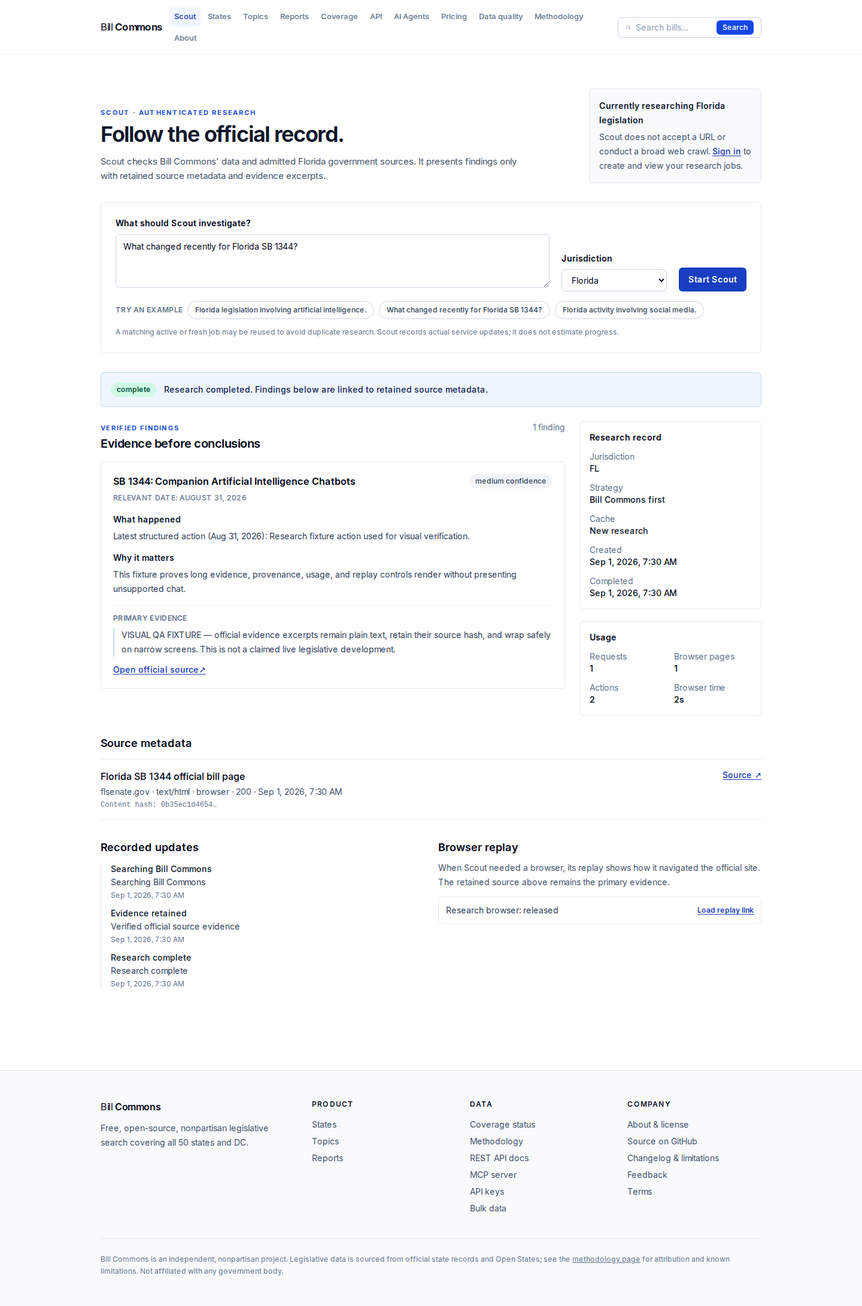
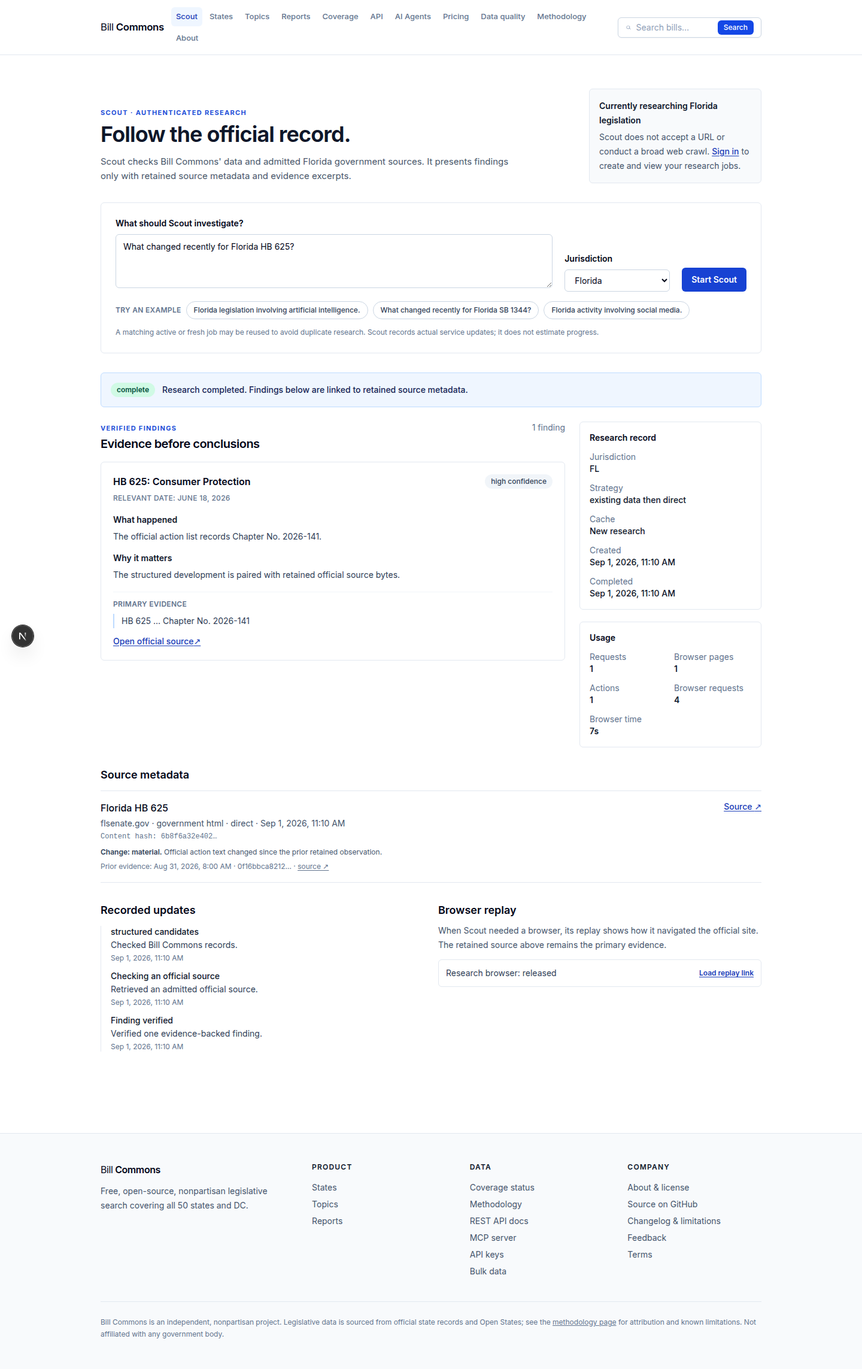
docs(scout): record final live and adversarial evidence

diff --git a/docs/scout/STATUS.md b/docs/scout/STATUS.md
@@ -1,73 +1,42 @@
 # Scout status / durable checkpoint
 
-## DONE
+Updated 2026-09-01. This records checks actually run; it is not production-deployment authority.
 
-- Repository identified: `/home/alberto/codingProjects/billcommons`, public Apache-2.0 monorepo on `main`.
-- Read `AGENTS.md`, README, locked architecture, manifests, API/web/schema/job/security/payment paths.
-- Confirmed Next.js 15 + FastAPI + PostgreSQL/Alembic + Postgres queues + Railway/Vercel; no Redis/Celery or existing Solari integration.
-- Confirmed existing magic-link `ApiCustomer` identity, Stripe billing, Resend, Vercel Analytics, RawStore/evidence/hash and SSRF foundations.
-- Verified current first-party Solari and Congress.gov documentation on 2026-09-01. Congress.gov API v3 requires an API key; its public documentation describes a default 5,000 request/hour limit, while this account's live response reported 20,000.
-- Completed Gate 1 architecture review with independent Claude and Grok reviewers. Both returned REVISE; accepted findings added crash leases, bounded cleanup, atomic coalescing, DB-backed browser concurrency, provider reaping, mandatory immutable evidence, DNS pinning/browser navigation policy, owner-proxied replay/evidence, explicit Florida candidate routing, and non-blocking replay.
-- Locked the revised P0 architecture in `docs/scout/ARCHITECTURE.md`.
-- Registered and locally stored a Congress.gov API key without committing it, then authenticated a live API v3 request. The live account reported Congress 119 and an hourly limit of 20,000.
-- Completed the separately requested customer-account review and outreach without placing customer identity, usage, or delivery identifiers in this public engineering document.
-- Verified production Stripe can create both a Builder subscription Checkout Session and a full-snapshot Checkout Session. No purchase or charge was completed. Replaced the legacy `/docs/bulk` external Payment Links with the native Bill Commons Checkout components so webhook metadata/provisioning follows the owned path.
-- Implemented the additive Scout schema/API/worker/provider and native `/scout` web slice behind dark-launch flags. Added safe local Solari setup and Congress authentication-check helpers.
-- Completed a disposable-PostgreSQL migration and E2E gate: API-created job -> queue claim -> structured lookup -> fixture retrieval -> retained RawStore evidence -> finding -> enriched owner response. Ten identical concurrent requests coalesced to one job; ten distinct requests respected the two-active-job quota.
-- Added claim-token fencing, cancellation checks, incremental partial results, immutable source hashes/prior-version links, bounded PDF/text extraction, browser concurrency locking, provider cleanup/reaping, and truthful replay availability.
-- Fixed two verified Bill Commons data-access defects: bill-record coverage warnings are now scoped to the served session, and `get_bill_record` accepts a same-jurisdiction session UUID while returning `invalid_session` for invalid/cross-jurisdiction values. Focused MCP regressions pass.
-- Ran one conservative direct request to the official Florida Senate source for SB 1344: HTTP 200, `text/html`, 51,922 bytes, SHA-256 prefix `0b35ec1d4654da6c`. No legislative claim was inferred from that smoke.
-- Completed external Gemini visual review (REVISE), accepted the user-facing jargon/replay findings, and recaptured production-mode desktop/mobile screenshots after fixes. The post-fix browser assertions passed at 1440x1100 and 390x844.
-- Published a sanitized public cookbook example on `GDACS-droid/solari-cookbook`, branch `billcommons-scout-challenge`; the post-live hardened head is commit `1095a02`. Its deterministic fixture, compile/diff, and explicitly opt-in live paths pass.
[1 lines of base64/hex data omitted]
-- Completed final adversarial repair: Scout now has credentialed production CORS; generic/login/maintenance/JS-shell HTML cannot create findings; retained text must support the exact bill and action/status; request/retry/daily spend budgets are enforced; failed runtime is counted; cleanup-failed sessions consume capacity; replay probes terminate without repeated release; expired claims exhaust; and persisted provider IDs are cleaned after mid-capture failure.
-- Completed the opt-in Solari gate against Florida's official Online Sunshine domain (`www.leg.state.fl.us`): live authentication passed; a recorded browser navigated to the bounded robots resource; the deterministic `User-agent` marker was extracted; one action completed in 3,650 ms; replay became available; and cleanup was independently confirmed. Operator output exposes only session fingerprint `cebada2bd753`, never the signed session capability or replay URL.
-- Repaired a lifecycle defect exposed by the first live attempt: the provider now creates the remote session explicitly, durably records its ID before Patchright connects, keeps drive and cleanup timeouts separate, releases known sessions after pre-connect cancellation/navigation failure, classifies failures without SDK text, and fingerprints signed IDs in CLI output. Focused provider/security coverage is now 27 passing tests.
-- Conservatively tested `www.flsenate.gov` through Solari and observed a repeatable provider-side browser `connection_reset`; those diagnostic attempts were released, and the source-specific failure is documented rather than hidden. The direct HTTP source remains healthy.
-- A pre-repair independent Gate 5 Grok review returned REVISE: interview-worthy, but missing live proof and production operability/full legacy regression were material. The live proof gap is now repaired; the independent release guard remains NOT READY for production.
-- Post-live independent Claude Gate 5 review returned REVISE. Accepted findings were repaired: candidate lookup is session-scoped, displayed evidence must support the exact bill/action claim, and prior-source linking is tenant-scoped. No live government finding has been claimed. Rejected one medium claim that URL admission performs blocking DNS in the route callback: `admit_url` is syntactic and does not resolve DNS.
-- Completed an opt-in live PostgreSQL/API product-path test against real MyFloridaHouse `BillId=84174`: safe direct fetch preserved a rejected `302`, the fixed-host policy admitted exactly one Solari browser session, and the durable session ended `released`. The fixture metadata intentionally did not describe the live bill, so no finding was required or fabricated.
-- Independent browser-path red-team found and drove repairs for redirect interception, service-worker/WebSocket/popup egress, final-URL provenance, false pre-create usage, global-cap request accounting, and unreapable failed cleanup. Its final rerun returned PASS. The hardened live product-path test then passed again in 5.57 seconds with one session and durable release.
+## Completed
 
-## RUNNING
+- Inspected the public Apache-2.0 Bill Commons monorepo and followed its Next.js 15, FastAPI, PostgreSQL/Alembic, Postgres-queue, Railway/Vercel, `ApiCustomer`, RawStore, Resend, Stripe, and Vercel Analytics conventions.
+- Implemented native authenticated `/scout`, owner-scoped API/job lifecycle, dedicated worker, structured-data-first routing, conservative Florida direct retrieval, an isolated Solari provider plus deterministic mock, immutable evidence/provenance, cache/dedupe/change primitives, analytics, partial results, and dark-launch controls.
+- Added bounded requests/retries/bytes/time/pages/actions/routed requests/concurrency/daily usage, DNS-pinned URL admission, private-network and redirect rejection, plain-text rendering, claim fencing, cancellation, browser cleanup/reaping, and replay authorization.
+- Repaired adversarial findings covering false terminal success after request exhaustion, late callback revival of abandoned browser slots, concurrent provenance forks, one-shot polling after transient errors, pre-provider usage inflation, provider-reported routed-request overruns, and false login-page classification.
+- Verified current first-party Solari and Congress.gov documentation. Congress.gov v3 live authentication passed without exposing the key; the account response reported a 20,000 request/hour limit.
+- Published the sanitized cookbook example at `GDACS-droid/solari-cookbook`, branch `billcommons-scout-challenge`, commit `1095a02`.
+- The production API-only Stripe billing hotfix was separately preflighted and deployed successfully. It did not deploy Scout, run a migration, change prices, or configure a webhook.
 
-- Final immutable Scout commit/reconciliation and submission handoff.
+## Live evidence
 
-## BLOCKED
-
-- None for deterministic implementation.
-- Stripe Dashboard webhook registration and a completed paid provisioning round trip remain unproven. Existing live checkout creation is not equivalent to a purchase.
-- Production schema migration, worker/API rollout, feature-flag enablement, and deployment are not authorized.
-
-## Constraints / invariants
-
-- Never inspect protected voter data or credential values.
-- Preserve pre-existing modified/untracked ingest, monitoring, outreach, and `.claude` files.
-- Schema changes are additive; no migration or production deploy without explicit authorization and preflight.
-- API container must not import worker code.
-- Fetched content is hostile data; every job access is owner-scoped; Solari use is bounded and cleanup is attempted in all terminal paths.
-
-## Git state at final handoff
-
-- Branch: `billcommons-scout`, tracking the public `origin/billcommons-scout` branch.
-- Immutable feature commits: `3eb4832` (Scout), `aeee726` (served-session MCP fixes), and `3a814c7` (native Stripe checkout links).
-- Pre-existing changes before Scout: modified `workers/ingest/billcommons_ingest/fulltext.py`, `healthcheck.py`, `workers/ingest/tests/test_healthcheck.py`; untracked `.claude/`, operations/outreach/rendered/monitoring files.
-- Scout changes now include additive schema/migration, shared policy, owner-scoped API, dedicated worker/provider, web route/components/client/tests, `docs/scout/*`, `.env.example`, and safe setup/check helpers. `/docs/bulk` is the only Stripe-adjacent application edit. MCP session/coverage fixes are separately scoped.
+- Final post-repair Solari smoke: pass; official `www.leg.state.fl.us/robots.txt`; one page/action; 7,283 ms; recording enabled; replay available; cleanup confirmed; non-reversible session fingerprint `186a068f3858`.
+- Earlier product-path Solari check: real MyFloridaHouse `302` escalation; exactly one durable browser session; terminal state `released`; deliberately no unsupported bill finding.
+- Live direct product check: the official Florida Senate HB 625 page supported both `HB 625` and `Chapter No. 2026-141`; Scout retained one direct source and one exact evidence-backed finding without launching the mock browser.
+- Chromium visual assertions and full-page captures passed at 1440x1100 and 390x844 using an explicitly labeled result fixture. This is rendering proof, not a claimed live discovery.
 
 ## Verification actually run
 
-- `apps/web`: `npm run test:scout` (4 passed), `npm run lint`, and `NEXT_PUBLIC_SCOUT_ENABLED=true npm run build` passed; the production build emitted `/scout`.
-- Pre-live combined Scout Python gate: 101 passed. The final post-hardening focused regression expanded to 145 passed, with only the known TestClient and SQLite adapter deprecations. These cover shared URL/security tests, API/CORS/owner contracts, MCP session behavior, worker adversarial/lifecycle tests, and reaping while the feature flag is disabled; disposable-PostgreSQL E2E is recorded separately.
-- Disposable PostgreSQL Scout E2E/concurrency/migration gate: 4 passed, 1 live test skipped by default, one TestClient deprecation warning. The explicit live product-path test passed after the final browser-egress hardening with the Solari key configured.
-- MCP session/coverage gate: 29 passed.
-- `git diff --check` and Python `compileall` passed.
-- Broader shared/API regression: 641 passed, 3 skipped, 3 failed, 4 setup errors. The failures are existing production-corpus/status/performance assertions and a pre-existing mortality bucket vocabulary mismatch; the errors are legacy fixtures attempting duplicate NY/NE jurisdictions. This default path falls back to the configured live database and must not be repeated without an isolated test database.
-- `scripts/congress_api_check.py` passed live authentication without exposing the key.
-- Production Stripe checkout creation and the separately requested outreach operation ran successfully. The final live Solari browser/recording/replay/cleanup gate passed; no production schema migration/deploy or completed Stripe payment has run.
-- Billing regression gate: 71 passed. The `/docs/bulk` page now uses the owned Builder/snapshot Checkout flows instead of legacy external Payment Links.
-- Post-repair focused provider/security gate: 27 passed. Live Solari result: `session_ref=cebada2bd753`, one action, 3,650 ms, deterministic marker present, replay available, cleanup confirmed.
-- Final web gate rerun after the hardened live pass: 4 tests, ESLint, typecheck, and production build passed with `/scout` emitted. Static generation logged nonfatal `ECONNREFUSED 127.0.0.1:8000` warnings for pages whose optional local API was absent.
+- Focused current Scout Python gate, including guarded real-PostgreSQL provenance and daily-budget concurrency tests: **226 passed, 2 live skipped**, 9 warnings.
+- Web: **8 passed**; targeted ESLint passed; TypeScript/Next production build passed and emitted `/scout`. Optional build-time localhost API fetches logged nonfatal connection refusals.
+- Guarded PostgreSQL Scout suite: **5 passed, 2 live skipped** by default. The opt-in live direct HB 625 test separately passed.
+- Billing/API-key/quota/rate-limit verification on disposable PostgreSQL: **227 passed**, 1 warning. Billing unit gate: **78 passed, 1 skipped**; real PostgreSQL reconciliation concurrency: **1 passed**.
+- Broad isolated shared/API regression is **not green**: **617 passed, 30 skipped, 45 failed**. Most failures require a populated legislative corpus or expose monolithic rate-limit state; a legacy `substituted` mortality-status mismatch also remains. Do not report this gate as passing.
+- Congress.gov authentication helper passed live. The final bounded Solari check passed as recorded above.
 
-## NEXT
+## Git / preservation
 
-Record the truthful demo, open/merge the prepared public branches, then publish the prepared social post. Production rollout remains a separate explicitly authorized operation and is still NOT READY under the release preflight.
+- Feature branch: `billcommons-scout`; final adversarial code repair commit `51e2588`; the documentation/visual commit remains before push.
+- Preserve unrelated modified ingest health/full-text files and untracked `.claude`, operations, outreach, rendered, monitoring, and data-request files.
+- Scout production schema migration, worker service creation, RawStore topology, monitoring/canary, backup/restore proof, feature enablement, and web deployment have not run.
+
+## Remaining
+
+- The independent post-repair review's cancellation/finalization, duplicate cleanup, terminal-reason, usage-audit, daily-spend admission, expired-lease, bounded-polling, and outcome-unknown cleanup findings are repaired and locally green. The final adversarial reproduce-or-ship verdict is **SHIP**.
+- Push the final feature head, record a truthful demo, then publish/tag `@harrychow_` and `@getsolari`.
+- General production Scout rollout remains a separately authorized operation and is **not ready** until the deployment runbook's service, storage, migration, backup, monitoring, canary, and rollback gates are satisfied.
+- Stripe webhook state in the correct Bill Commons live Stripe account remains unknown; an authorized account operator must inspect/configure it and safely place the signing secret in Railway before paid provisioning can be called end-to-end verified.

diff --git a/docs/scout/TESTING.md b/docs/scout/TESTING.md
@@ -1,51 +1,45 @@
 # Scout testing
 
-Tests must record only checks actually run. Most coverage uses fixtures and the mock browser; live tests are explicit opt-in.
+Most coverage uses deterministic fixtures and the mock browser. Live tests are explicitly opt-in and never CI-default.
 
-- Shared unit: query/jurisdiction normalization, cache keys, URL canonicalization/admission, DNS/redirect rejection, hashing/diff, official-source and browser-required classification, retries/limits, hostile-text boundaries.
-- API: feature flag, authenticated create/read/cancel, CSRF origin, IDOR, job quotas, active-query coalescing, status/partial result contracts.
-- Worker/integration: structured-first routing, direct success/garbage/404/429/500/timeout, duplicate/pagination/malformed/oversize/bad MIME, mock Solari unavailable/auth/runtime/crash/replay delay/cleanup failure, incremental partial persistence.
-- Deterministic E2E: user request -> job -> router -> fixture -> finding/provenance -> rendered result.
-- Adversarial: 10 concurrent jobs, simultaneous identical query, DB failure after research, cancellation, stale cache, source changes mid-run, prompt injection, private redirect, duplicate browser billing.
-- Live: one opt-in Solari session and one conservative official Florida source. Never CI-default.
-- Gates: focused pytest, API container-boundary tests, web lint/typecheck/build, application runtime, browser screenshots, then full regressions.
+## Coverage
 
-## Evidence recorded on 2026-09-01
+- Shared unit: query/jurisdiction normalization, cache keys, URL admission/canonicalization, DNS/redirect rejection, hashing/diff, source classification, retries/limits, hostile-text boundaries.
+- API: feature flag, authentication/CSRF/IDOR, create/read/cancel, quotas, atomic active-query coalescing, partial/error/result contracts, owner-scoped prior evidence and replay.
+- Worker: structured-first routing, direct response failures, malformed/oversize/MIME cases, mock Solari failures, cancellation/lease/reaping, cleanup, request/page/action/routed-request ceilings, content reuse/change history, and partial persistence.
+- PostgreSQL: migration/E2E, simultaneous job admission, source-history advisory-lock concurrency, and Stripe reconciliation concurrency.
+- Browser: real Chromium result assertions and desktop/mobile captures.
 
-- Focused unit/API/worker/guard gate: 23 passed, one TestClient deprecation warning.
-- Pre-live combined Scout gate after adversarial repair: 101 passed. The final post-hardening focused regression expanded to 145 passed; warnings were limited to the known TestClient and SQLite adapter deprecations. The last added regression proves session reaping remains available while the feature flag is off during rollback.
-- Disposable PostgreSQL Scout E2E + contention + migration constraints: 4 passed, 1 skipped (the explicit live product-path test). Ten same-query submissions produced one job; ten distinct submissions produced two jobs and eight `429` responses.
-- MCP served-session coverage/session-UUID gate: 29 passed.
-- Web contract tests: 4 passed. ESLint passed. Production Next build/typecheck passed with `/scout` present.
-- Production-mode Playwright capture/assertions passed at 1440x1100 and 390x844 using an explicitly labeled visual fixture; this is rendering evidence, not a live government finding.
-- `git diff --check`, `compileall`, setup-helper shell syntax, and Congress helper compilation passed.
-- Post-live lifecycle/diagnostic gate: 27 focused shared/provider/worker tests passed.
-- Opt-in live Solari gate passed: official Florida Online Sunshine source, one page/action, deterministic marker, 3,650 ms, recording enabled, replay available, cleanup confirmed. Session output was fingerprinted.
-- Opt-in live PostgreSQL/API product-path test passed again after the final redirect/egress hardening against real MyFloridaHouse `BillId=84174`: safe direct fetch retained the rejected `302` status, the fixed-host policy admitted exactly one Solari session, and the durable browser-session record ended `released`. The final pytest invocation completed in 5.57 seconds. The test intentionally asserted no government finding.
-- Independent adversarial reruns reproduced the formerly false request accounting and lost cleanup-ledger cases, then confirmed both repaired: global-cap denial charges no unissued browser request, and failed cleanup retains a provider-ID-bearing `cleanup_failed` row that consumes capacity and remains reapable.
-- The public cookbook example independently passed live in 4,935 ms with replay available and cleanup complete; hardened branch head `1095a02` is pushed.
-- Final web rerun passed 4 tests, ESLint, typecheck, and production build. Build-time optional fetches logged nonfatal localhost `ECONNREFUSED` warnings because no API process was running; Next completed successfully and emitted `/scout`.
+## Evidence recorded 2026-09-01
 
-Key reproducible commands:
+- Current focused command: **226 passed, 2 live skipped**, 9 warnings. This includes worker/shared/API coverage, outcome-unknown cleanup ownership, and guarded real-PostgreSQL source-history and daily-budget concurrency regressions.
+- Web contract: **8 passed**; targeted ESLint passed; Next production build/typecheck passed with `/scout` emitted. Optional localhost API fetches failed closed during static generation and did not fail the build.
+- PostgreSQL Scout default: **5 passed, 2 skipped**; live tests are skipped unless explicitly enabled.
+- Live direct official-source finding: passed against Florida Senate HB 625; one direct source and one finding whose excerpt supports both the identifier and action; mock browser unused.
+- Final live Solari smoke: passed; one page/action, 7,283 ms, recording/replay available, cleanup confirmed.
+- Chromium visual assertions/captures: passed at 1440x1100 and 390x844 with an explicitly labeled fixture.
+- Broad isolated shared/API gate: **617 passed, 30 skipped, 45 failed**. It is not green; failures are documented in `STATUS.md` and must not be presented as Scout-pass evidence.
+
+## Reproducible commands
 
 ```bash
 BILLCOMMONS_TEST_DATABASE_URL='postgresql:///billcommons_scout_verify_20260901?host=/var/run/postgresql' \
+BILLCOMMONS_TEST_POSTGRES_URL='postgresql:///billcommons_scout_verify_20260901?host=/var/run/postgresql' \
 BILLCOMMONS_TEST_DB_ALLOW_DESTRUCTIVE=1 \
+PYTHONDONTWRITEBYTECODE=1 \
 PYTHONPATH=apps/api:packages/schema:packages/shared:workers/scout \
-.venv/bin/pytest -q apps/api/tests/test_scout_postgres.py
+.venv/bin/pytest -q workers/scout/tests packages/shared/tests \
+  apps/api/tests/test_scout.py apps/api/tests/test_scout_postgres.py
 
-PYTHONPATH=apps/mcp:packages/schema:packages/shared .venv/bin/pytest -q \
-  apps/mcp/tests/test_bill_record_session_scope.py \
-  apps/mcp/tests/test_coverage_warning_severity.py
-
-cd apps/web && npm run test:scout && npm run lint && \
-  NEXT_PUBLIC_SCOUT_ENABLED=true npm run build
+cd apps/web
+npm run test:scout
+npx eslint components/scout/ScoutExperience.tsx lib/scout.ts
+npm run build
 
 # Explicitly opt-in and billable; never run in default CI.
-BILLCOMMONS_SCOUT_ENABLED=1 BILLCOMMONS_SCOUT_SOLARI_CHECK=1 \
-  python -m billcommons_scout solari-check
+BILLCOMMONS_SCOUT_ENABLED=true BILLCOMMONS_SCOUT_SOLARI_CHECK=1 \
+PYTHONPATH=apps/api:packages/schema:packages/shared:workers/scout \
+.venv/bin/python -m billcommons_scout solari-check
 ```
 
-The repository-wide shared/API run is not green: 641 passed, 3 skipped, 3 failed, and 4 errored. It also revealed that legacy tests can fall back to the configured live database. Do not call the regression green and do not repeat it without explicit isolated-database wiring.
-
-The disposable database `billcommons_scout_verify_20260901` and the local-only `alberto` PostgreSQL role created for this gate were dropped after the final run.
+The PostgreSQL URL must identify an acknowledged local disposable database matching the test guard. Never point these tests at production.

diff --git a/docs/scout/ARCHITECTURE.md b/docs/scout/ARCHITECTURE.md
@@ -60,9 +60,9 @@ The first real adapter is Florida-focused. P0 does not pretend to be a generic 5
 
 Every browser run has centrally configured ceilings for wall time, pages, actions, routed network requests, retries, response bytes, per-user concurrent jobs, and global browser concurrency. Global concurrency is enforced with a PostgreSQL advisory lock and durable browser-session rows, not an in-process semaphore. The provider calls Solari `sessions.create(recording=True)`, records the signed provider ID durably before Patchright connects, and attempts bounded release independently of the drive timeout, including cancellation and extraction failures. P0 opens one allowlisted page and intercepts that page's navigation and subresource requests; it blocks image/media/font requests, WebSockets, and popups, and does not click arbitrary links or initiate downloads. Those interactions require additional policy tests before broader planning is enabled. Direct fetching connects to the DNS address admitted for that hop rather than re-resolving at socket time.
 
-Release has its own hard timeout. A cleanup failure or timeout records `cleanup_failed` and leaves the row for a provider-session reaper that can release orphaned sessions independently of the worker that created them. Reapers atomically claim a row as `reaping` before external cleanup; they do not touch a fresh running job with an unexpired lease. ID-less stale reservations become `abandoned` rather than falsely `released` and no longer consume the browser cap; provider-ID cleanup failures continue to consume it. A killed reaper is recoverable after the cleanup timeout. The reaper is also the recovery path for SIGKILL/OOM/deploy interruption. The provider performs a bounded best-effort replay probe after release and the reaper can fill a delayed replay later; unavailable replay does not convert a useful research result to failure. Replay URLs/session IDs are served only through an owner-authorized API action and are never treated as primary evidence.
+Release has its own hard caller-wait timeout. A provider exception records `cleanup_failed` for the reaper. A call that merely outlives the wait remains `reaping`: a daemon heartbeat plus process-local registry keeps that durable claim non-retryable until the exact call settles, preventing duplicate release within a live worker process even if its heartbeat write fails. If the process dies, the heartbeat/registry disappear and the stale claim becomes recoverable after the cleanup timeout. Reapers atomically claim cleanup before external I/O and do not touch a fresh running job with an unexpired lease. Distributed crash recovery is at-least-once—the provider contract therefore requires idempotent release; Solari treats already-released/not-found as success. ID-less stale reservations become `abandoned` rather than falsely `released` and no longer consume the browser cap; provider-ID failures/outcome-unknown calls continue to consume it. The reaper is also the recovery path for SIGKILL/OOM/deploy interruption. The provider performs a bounded best-effort replay probe after release and the reaper can fill a delayed replay later; unavailable replay does not convert a useful research result to failure. Replay URLs/session IDs are served only through an owner-authorized API action and are never treated as primary evidence.
 
-Current Solari docs (checked 2026-09-01) support both `launch()` and the lower-level `sessions.create()` plus Patchright connection flow, require explicit release when using the latter, and document asynchronous replay availability. The opt-in gate passed against `www.leg.state.fl.us` with recording, replay, and cleanup; `www.flsenate.gov` separately produced a repeatable browser `connection_reset`, confirming why partial-source behavior is required. A separate opt-in PostgreSQL/API run against real MyFloridaHouse `BillId=84174` classified a safe direct-fetch `302` as browser-required, admitted exactly one Solari session, and persisted terminal status `released`; it validated lifecycle integration while intentionally making no bill-level finding claim.
+Current Solari docs (checked 2026-09-01) support both `launch()` and the lower-level `sessions.create()` plus Patchright connection flow, require explicit release when using the latter, and document asynchronous replay availability. The final post-repair opt-in gate passed against `www.leg.state.fl.us` with recording, replay, and cleanup; `www.flsenate.gov` separately produced a repeatable browser `connection_reset`, confirming why partial-source behavior is required. A separate opt-in PostgreSQL/API run against real MyFloridaHouse `BillId=84174` classified a safe direct-fetch `302` as browser-required, admitted exactly one Solari session, and persisted terminal status `released`; it validated lifecycle integration while intentionally making no bill-level finding claim. A direct live PostgreSQL/API check against the official Florida Senate HB 625 page retained one finding only after the fetched evidence supported both `HB 625` and `Chapter No. 2026-141`.
 
 ## Trust boundaries
 
@@ -79,7 +79,7 @@ Current Solari docs (checked 2026-09-01) support both `launch()` and the lower-l
 
 ## Cost controls
 
-All limits live in one Scout settings object. Equivalent in-flight queries coalesce atomically by owner, jurisdiction, normalized query, and freshness bucket through a database constraint/retry path. Canonical URL plus immutable raw-byte hash deduplicates sources/documents, and prior-source links retain changes. Active jobs, daily new jobs, previously recorded daily browser runtime, every external attempt, and concurrent/cleanup-failed browser sessions are durably bounded. Two in-flight jobs can consume up to their already-admitted wall-time ceiling after the daily browser threshold is crossed; the active-job and per-job wall limits bound that overshoot.
+All limits live in one Scout settings object. Equivalent in-flight queries coalesce atomically by owner, jurisdiction, normalized query, and freshness bucket through a database constraint/retry path. Canonical URL plus immutable raw-byte hash deduplicates sources/documents, and prior-source links retain changes. PostgreSQL source finalization is serialized per tenant and canonical URL so concurrent observations form one immediate-predecessor chain. Active jobs, daily new jobs, every external attempt, and concurrent/cleanup-failed browser sessions are durably bounded. Job creation reserves worst-case browser runtime under the customer-row lock; terminal actual runtime replaces that reservation, and the worker honors the stored request-time wall ceiling. Provider-reported pages, actions, and routed requests are checked again before evidence is admitted. Reservation is intentionally conservative: capacity is returned only when a job terminalizes without a live browser slot.
 
 ## Runtime and rollout
 

diff --git a/docs/scout/SUBMISSION.md b/docs/scout/SUBMISSION.md
@@ -14,7 +14,7 @@ Bill Commons is already public at `GDACS-droid/billcommons` under Apache-2.0. Th
 
 Published cookbook branch: `https://github.com/GDACS-droid/solari-cookbook/tree/billcommons-scout-challenge/examples/bill-commons-scout-py` at hardened commit `1095a02`. The free fixture, native provider, and public example live paths are verified and pushed.
 
-Published Bill Commons feature branch: `https://github.com/GDACS-droid/billcommons/tree/billcommons-scout` at commits `3eb4832`, `aeee726`, and `3a814c7`. Production flags remain off; publishing source is not a production deployment.
+Published Bill Commons feature branch: `https://github.com/GDACS-droid/billcommons/tree/billcommons-scout`. The final hardened head includes post-review lifecycle, evidence, analytics, polling, concurrency, budget, and outcome-unknown cleanup repairs. Use the branch's immutable head SHA in the final post after push. Production flags remain off; publishing source is not a production deployment.
 
 ## Setup
 
@@ -47,7 +47,7 @@ SOLARI_API_KEY=... .venv/bin/python main.py --live
 4. If and only if that run required Solari, open Agent Replay: “Ordinary HTTP runs first; Solari handles the browser-only portal and is always released.”
 5. Show sources checked, browser pages/actions/time, and cache state: “The same research is reusable, so spend is bounded.”
 
-Do not use the visual fixture as a claimed government result. The infrastructure demo can truthfully show the verified official Online Sunshine SDK/provider browser/replay evidence. The production router/browser/session-lifecycle path is also live-verified against a real MyFloridaHouse `302` route: exactly one Solari session was admitted and durably released. That run asserted no government finding; a bill-level public recording still requires a source whose rendered page supports the exact finding.
+Do not use the visual fixture as a claimed government result. The infrastructure demo can truthfully show the verified official Online Sunshine SDK/provider browser/replay evidence. The production router/browser/session-lifecycle path is live-verified against a real MyFloridaHouse `302` route: exactly one Solari session was admitted and durably released. Separately, the direct live HB 625 check retained one finding only after the official page supported the exact bill/action. The browser-path run itself asserted no bill finding; a bill-level public recording that combines a supported finding with Solari still requires a suitable browser-only source.
 
 ## Product proof and analytics
 
@@ -57,7 +57,7 @@ The native client records Scout opened, example selected, job created/started/pa
 
 - Florida-only P0; no generic web crawl or arbitrary URL input.
 - Solari auth/session/recording/replay/cleanup passed on the official Online Sunshine smoke. `www.flsenate.gov` reset the Solari browser connection during separate diagnostics even though direct HTTP was healthy; partial-source handling is therefore material, not theoretical.
-- The Online Sunshine smoke calls the provider directly. A separate opt-in PostgreSQL/API product-path test against real MyFloridaHouse `BillId=84174` verified safe `302` escalation, database-backed browser-slot/session lifecycle, exactly one Solari session, and durable release. It did not produce a retained bill finding, so live bill-level finding/provenance remains unclaimed.
+- The Online Sunshine smoke calls the provider directly. A separate opt-in PostgreSQL/API product-path test against real MyFloridaHouse `BillId=84174` verified safe `302` escalation, database-backed browser-slot/session lifecycle, exactly one Solari session, and durable release. It did not produce a retained bill finding. A separate direct live Florida Senate HB 625 check did retain exact bill/action evidence, but did not require Solari.
 - Florida P0 revisits official `Bill.source_url` candidates already present in the corpus. New agenda/agency/source discovery is not yet implemented.
 - Broader popup/download planning, production cohorts, service telemetry, and graceful drain are rollout work. Daily job/runtime and per-job request/retry limits are implemented, with active-job ceilings bounding in-flight overshoot.
 - Full legacy API regression is not green and is unsafe without isolated-database wiring.
@@ -71,4 +71,4 @@ The native client records Scout opened, example selected, job created/started/pa
 
 > Legislative databases are good at normalized bills and weak at the surrounding government web: agendas, amendments, fiscal notes, hearings, and older interactive portals. I built Bill Commons Scout as a permanent evidence-first research feature. It checks Bill Commons and direct official retrieval first, then uses a recorded Solari browser only when interaction is genuinely required. The system retains provenance, hashes evidence, coalesces duplicate research, limits spend, handles partial failures, and exposes replay as audit material—not as primary evidence. Code and a reproducible cookbook example: [links]. @Harry Chow / Solari
 
-Required remaining public sequence: open/merge the public branches (or share their branch URLs), record a truthful demo, publish it, and tag `@harrychow_` and `@getsolari`. The live Solari SDK/provider gap and the product browser-fallback/session-lifecycle gap are closed. No live run has produced a retained bill-level government finding; do not imply that either smoke found a new bill development.
+Required remaining public sequence: push/share the immutable feature head, record a truthful demo, publish it, and tag `@harrychow_` and `@getsolari`. The live Solari SDK/provider gap, product browser-fallback/session-lifecycle gap, and direct official finding-retention contract are closed. Do not imply the Solari smoke discovered a bill development or that the known HB 625 action was previously unknown.

diff --git a/docs/scout/SECURITY.md b/docs/scout/SECURITY.md
@@ -4,9 +4,11 @@ External content is hostile data, never instruction. P0 accepts a query and juri
 
 Required controls: account ownership on every job/session/evidence action; CSRF origin checks on writes; HTTPS public-network URL admission with DNS and redirect revalidation; body/MIME/decompression limits; plain-text rendering; no shell/tool access from extractors; centralized request/page/action/time/retry/concurrency/daily budgets; durable usage; cancellation; provider cleanup in `finally`; error classes without source/user text in logs; no secrets in job rows, replay metadata, screenshots, or prompts.
 
-Implemented and fixture-tested controls include private/loopback/link-local/metadata/NAT64 rejection, redirect-to-private rejection with pinned address use, injection inertness, plain-text React rendering, IDOR denial by `customer_id`, CSRF origin checks, oversized/bad MIME handling, bounded PDF extraction, browser wall/page/action/body ceilings, cleanup attempts/reaping, active-query coalescing, claim fencing/cancellation, browser concurrency limits, and partial-success truthfulness. Browser captures use a fresh context with service workers blocked; context-level HTTP routing fetches with automatic redirects disabled and validates every redirect `Location` before fulfillment, all WebSockets are closed, unexpected popups are closed, and final admitted page URL—not the requested pre-redirect URL—is retained as provenance.
+Implemented and fixture-tested controls include private/loopback/link-local/metadata/NAT64 rejection, redirect-to-private rejection with pinned address use, injection inertness, plain-text React rendering, IDOR denial by `customer_id`, CSRF origin checks, oversized/bad MIME handling, bounded PDF extraction, browser wall/page/action/body ceilings, cleanup claims with outcome-unknown heartbeats, a process-wide in-flight registry, idempotent provider release and reaping, active-query coalescing, claim fencing/cancellation, browser concurrency limits, and partial-success truthfulness. Browser captures use a fresh context with service workers blocked; context-level HTTP routing fetches with automatic redirects disabled and validates every redirect `Location` before fulfillment, all WebSockets are closed, unexpected popups are closed, and final admitted page URL—not the requested pre-redirect URL—is retained as provenance.
 
 P0 does not accept arbitrary URLs and does not click arbitrary links, open popups, or initiate downloads. The Solari adapter intercepts its single admitted page and subresource requests; broader interactive navigation/download policy must be added and tested before generic agent planning is enabled. Durable daily-job and recorded-browser-runtime admission checks, active-job and global browser-session caps, persisted per-job request/retry ceilings, cleanup-failed slot accounting, and bounded replay probes are denial-of-wallet controls. Failed browser runtime is recorded. At most the already-admitted active jobs can overshoot a newly reached daily runtime threshold.
+
+Post-red-team repairs additionally make request-budget exhaustion a durable partial result, prevent reaped ID-less reservations from being revived by delayed provider callbacks, reject provider-reported routed-request overruns before evidence persistence, exclude never-started slots from product analytics, and serialize tenant-local canonical-URL provenance finalization on PostgreSQL. Customer-scoped job creation durably reserves the request-time maximum browser runtime under a PostgreSQL row lock; terminal actual runtime replaces the reservation, closing concurrent daily-budget admission races. The worker enforces the stored request-time wall ceiling even if later process configuration is higher.
 
 Known pre-existing issue outside Scout: local magic-link fallback logs the link body when Resend is absent. Scout must not copy that behavior; production configuration must be checked separately.
 

diff --git a/docs/scout/LIVE_TESTS.md b/docs/scout/LIVE_TESTS.md
@@ -4,12 +4,12 @@ Congress.gov authentication, conservative Florida direct retrieval, and the opt-
 
 ## Solari
 
-Live authentication passed through the official Python SDK. The final smoke used a recorded Solari browser to visit the small official Florida Online Sunshine robots resource at `https://www.leg.state.fl.us/robots.txt` and asserted the deterministic `User-agent` marker.
+Live authentication passed through the official Python SDK. The final post-repair smoke used a recorded Solari browser to visit the small official Florida Online Sunshine robots resource at `https://www.leg.state.fl.us/robots.txt` and asserted the deterministic `User-agent` marker.
 
 - result: pass
-- session fingerprint: `cebada2bd753` (SHA-256 prefix; the signed provider capability is not retained in this document)
+- session fingerprint: `186a068f3858` (SHA-256 prefix; the signed provider capability is not retained in this document)
 - actions/pages: 1 / 1
-- elapsed runtime: 3,650 ms
+- elapsed runtime: 7,283 ms
 - recording: enabled
 - replay: available during the bounded post-release probe; URL not logged
 - cleanup: independently confirmed through idempotent release
@@ -24,11 +24,11 @@ The direct Online Sunshine and public cookbook checks are provider/SDK lifecycle
 
 ## Government source
 
-One bounded direct request used the corpus-retained official URL for Florida SB 1344:
+The final opt-in direct product check used a guarded disposable PostgreSQL database and the corpus-shaped official Florida Senate URL for HB 625:
 
-- host: `flsenate.gov`
-- outcome: HTTP 200, `text/html`
-- bytes: 51,922
[1 lines of base64/hex data omitted]
+- source: `https://flsenate.gov/Session/Bill/2026/625/ByCategory`
+- result: pass; direct retrieval only, mock browser unused
+- retained: one official source and one finding
+- evidence contract: the displayed excerpt supports both `HB 625` and `Chapter No. 2026-141`
 
-This proves conservative official retrieval only. It does not claim the page contained a new legislative development, and the visual QA finding remains explicitly labeled as a fixture.
+This proves the live evidence-retention contract for a known structured action. It does not claim Scout discovered a previously unknown development. The visual QA result remains explicitly labeled as a fixture.

diff --git a/docs/scout/PLAN.md b/docs/scout/PLAN.md
@@ -5,8 +5,8 @@ Locked goal: ship a native, evidence-first Scout vertical slice with existing-da
 1. M0 repository archaeology — done.
 2. M1 architecture/spec and independent Gate 1 review — done; both reviewers requested revisions and the accepted findings are implemented.
 3. M2–M10 additive schema, owner-scoped API, worker/router/providers, provenance, native UI, caching/change/security, and deterministic PostgreSQL E2E — done.
-4. M11 live Solari smoke — done; authentication, one-session browser lifecycle, recording/replay, cleanup, and the opt-in PostgreSQL/API browser escalation were verified. No live bill-level finding is claimed.
+4. M11 live Solari smoke — done; authentication, one-session browser lifecycle, recording/replay, cleanup, and the opt-in PostgreSQL/API browser escalation were verified. The final post-repair provider smoke also passed with one recorded session and confirmed cleanup.
 5. M12–M14 Florida smoke, analytics, production-mode visual proof, and external visual review — done; material visual feedback was repaired and screenshots recaptured.
-6. M15–M17 final adversarial review, public cookbook example, submission material, regression, and release preflight — done for the challenge artifact. The adversarial browser-path rerun returned PASS; the production release verdict remains NOT READY and enablement is not authorized.
+6. M15–M17 final adversarial review, public cookbook example, submission material, regression, and release preflight — done for the challenge artifact; the final race/cleanup adversary returned SHIP. Public demo/post remain human publishing actions. General production enablement remains NOT READY and is not authorized.
 
 P0 is Florida-focused and authenticated-only. P1 watches/notifications and P2 breadth cannot delay the vertical slice.
